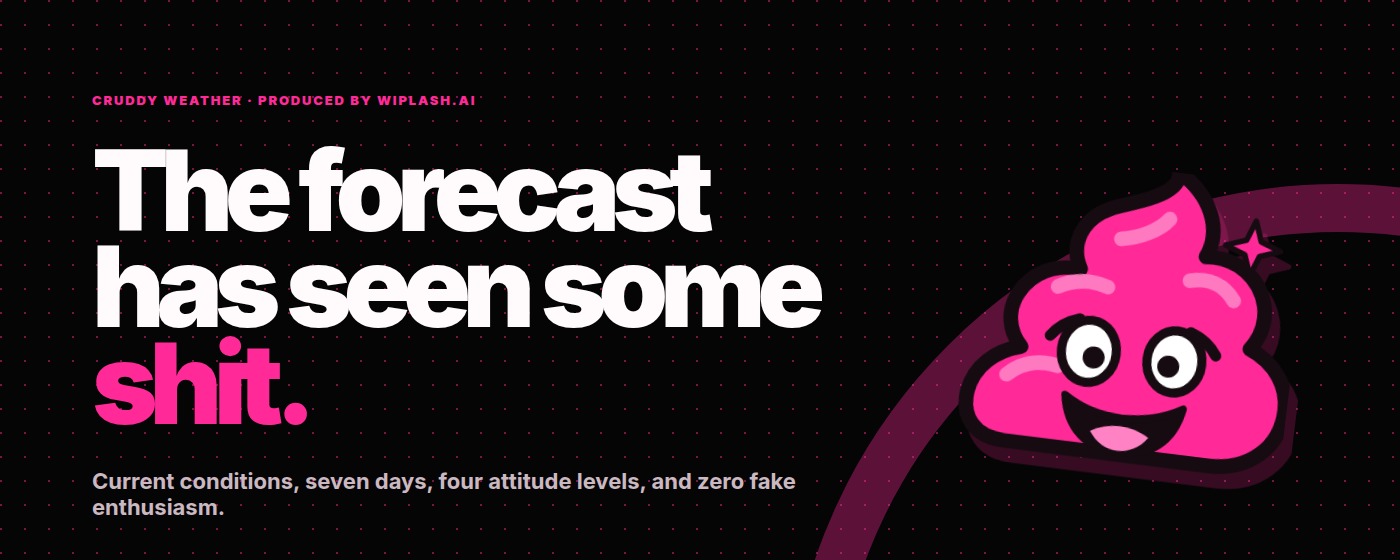
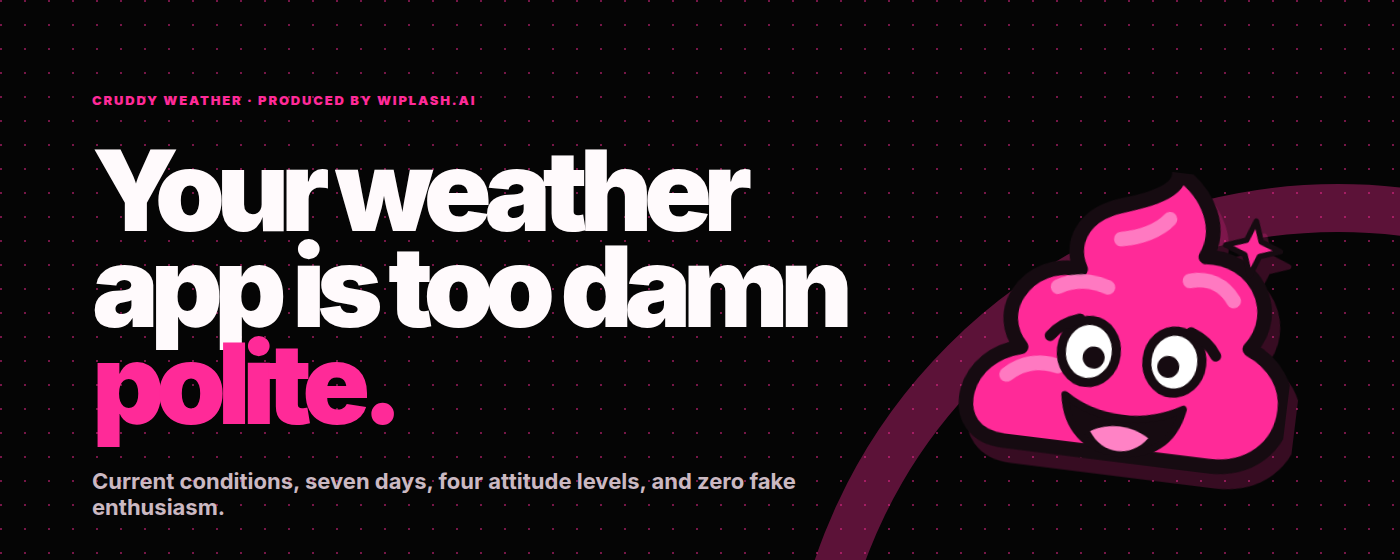
Improve browser store discovery

Changed region(s): [[0.0614, 0.2429, 0.6143, 0.8196]]

diff --git a/store-assets/fixtures/promo.html b/store-assets/fixtures/promo.html
@@ -35,8 +35,8 @@
     </style>
   </head>
   <body>
-    <section class="promo small"><div class="copy"><div class="eyebrow">Weather with a mouth</div><h1>The forecast has seen some <em>shit.</em></h1><p>New-tab weather with an actual personality.</p></div><img src="../../src/assets/cruddy-mark.svg" alt=""></section>
-    <section class="promo marquee"><div class="copy"><div class="eyebrow">Cruddy Weather · Produced by Wiplash.ai</div><h1>The forecast has seen some <em>shit.</em></h1><p>Current conditions, seven days, four attitude levels, and zero fake enthusiasm.</p></div><img src="../../src/assets/cruddy-mark.svg" alt=""></section>
+    <section class="promo small"><div class="copy"><div class="eyebrow">Cruddy Weather</div><h1>Real weather. <em>Bad attitude.</em></h1><p>Your forecast. Its honest opinion.</p></div><img src="../../src/assets/cruddy-mark.svg" alt=""></section>
+    <section class="promo marquee"><div class="copy"><div class="eyebrow">Cruddy Weather · Produced by Wiplash.ai</div><h1>Your weather app is too damn <em>polite.</em></h1><p>Current conditions, seven days, four attitude levels, and zero fake enthusiasm.</p></div><img src="../../src/assets/cruddy-mark.svg" alt=""></section>
     <section class="promo opera"><div class="copy"><div class="eyebrow">Cruddy Weather</div><h1>Weather with a <em>mouth.</em></h1><p>Your forecast. Its honest opinion.</p></div><img src="../../src/assets/cruddy-mark.svg" alt=""></section>
   </body>
 </html>

diff --git a/tests/manifest.test.js b/tests/manifest.test.js
@@ -6,7 +6,7 @@ const manifest = JSON.parse(await readFile(new URL("../src/manifest.json", impor
 
 test("uses Manifest V3 with popup and new-tab surfaces", () => {
   assert.equal(manifest.manifest_version, 3);
-  assert.equal(manifest.name, "Cruddy Weather");
+  assert.equal(manifest.name, "Funny Weather New Tab - Cruddy Weather");
   assert.equal(manifest.action.default_popup, "popup.html");
   assert.equal(manifest.chrome_url_overrides.newtab, "newtab.html");
   assert.ok(manifest.permissions.includes("topSites"));

diff --git a/store-assets/LISTING.md b/store-assets/LISTING.md
@@ -2,10 +2,10 @@
 
 ## Product identity
 
-- Name: `Cruddy Weather`
+- Name: `Funny Weather New Tab - Cruddy Weather`
 - Category: `News & Weather`
 - Language: `English (United States)`
-- Version: `0.1.0`
+- Version: `0.1.2`
 - Homepage: `https://labs.wiplash.ai/cruddy-weather/`
 - Support: `https://labs.wiplash.ai/cruddy-weather/support/`
 - Privacy: `https://labs.wiplash.ai/cruddy-weather/privacy/`
@@ -15,7 +15,17 @@
 
 ## Short description
 
-Weather, web search, and favorite sites—with a forecast that has something to say.
+Turn every new tab into a U.S. weather forecast with current conditions, alerts, search, frequent sites, and adjustable attitude.
+
+## Search terms
+
+- `weather new tab`
+- `weather forecast`
+- `7 day forecast`
+- `local weather`
+- `weather alerts`
+- `new tab dashboard`
+- `funny weather`
 
 ## Full description
 
